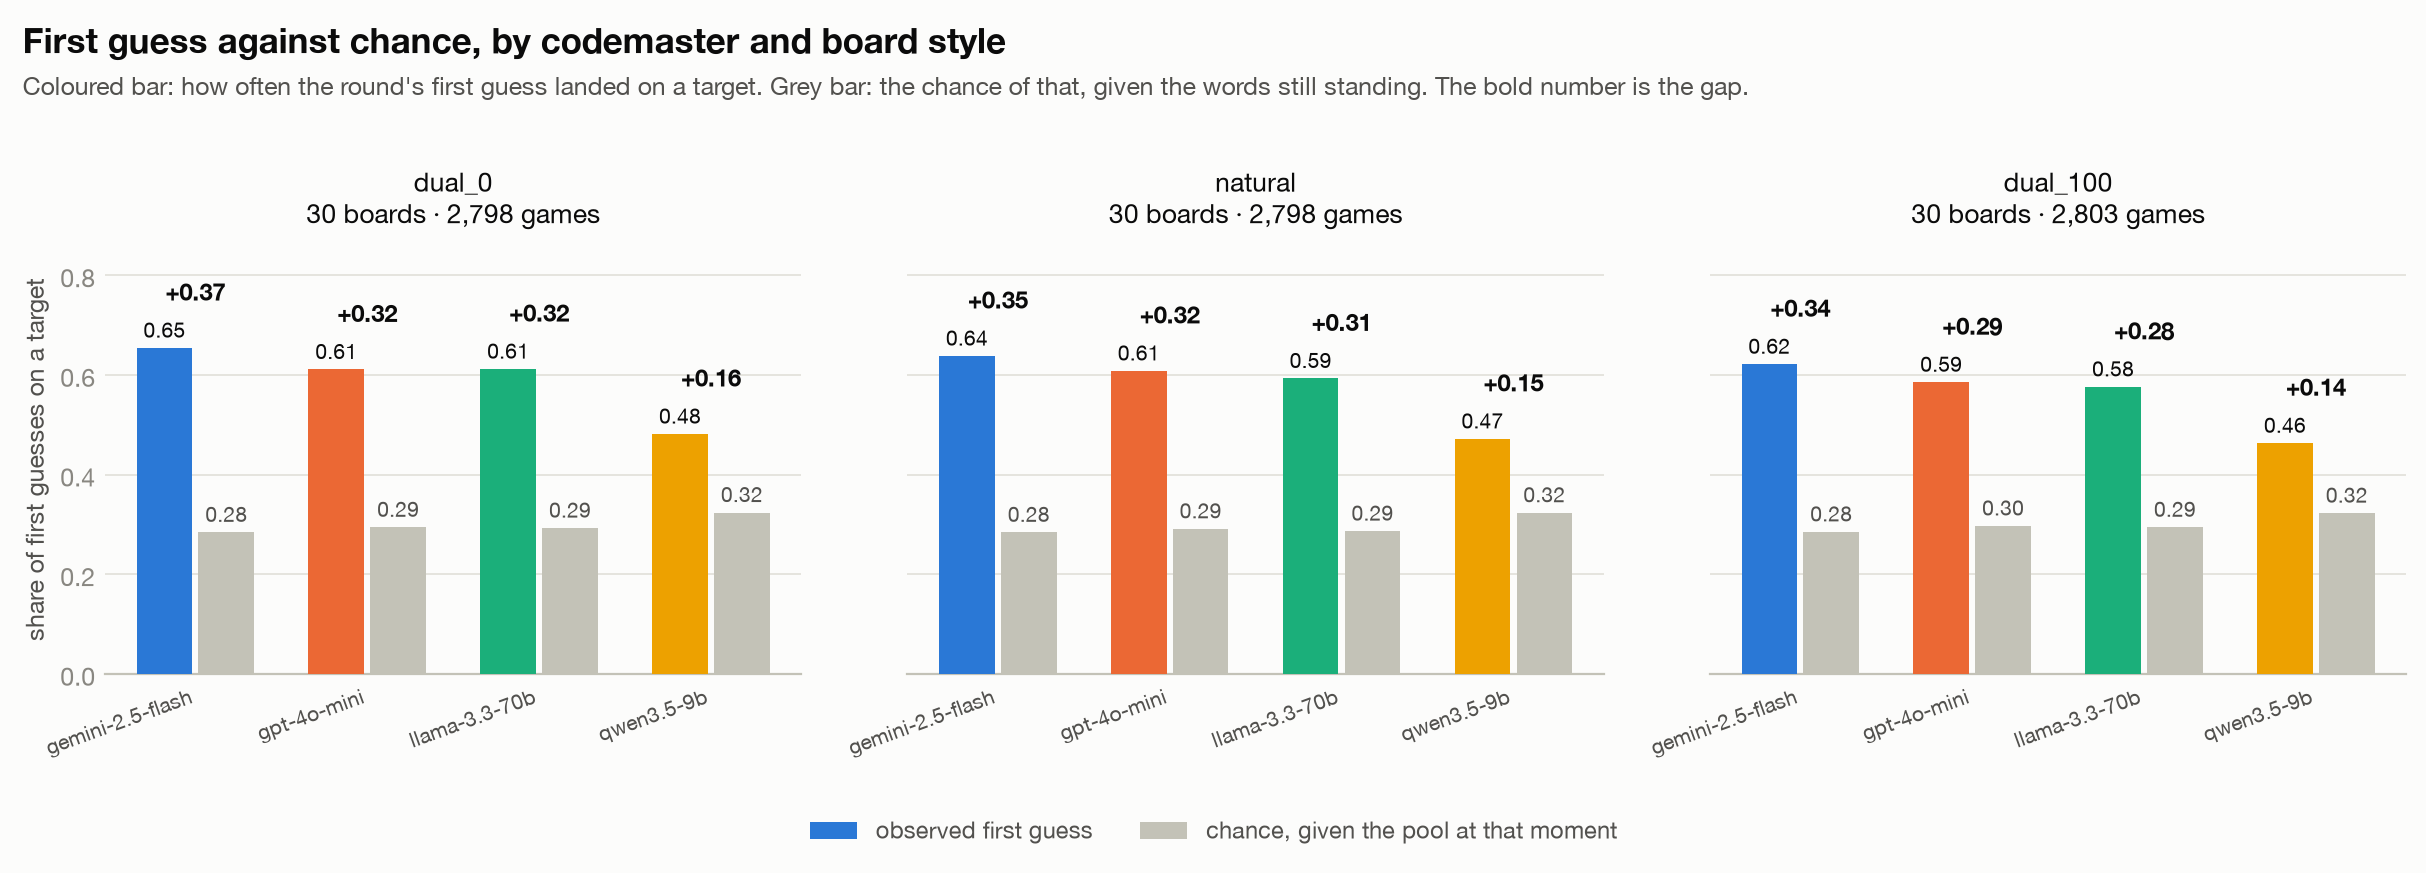
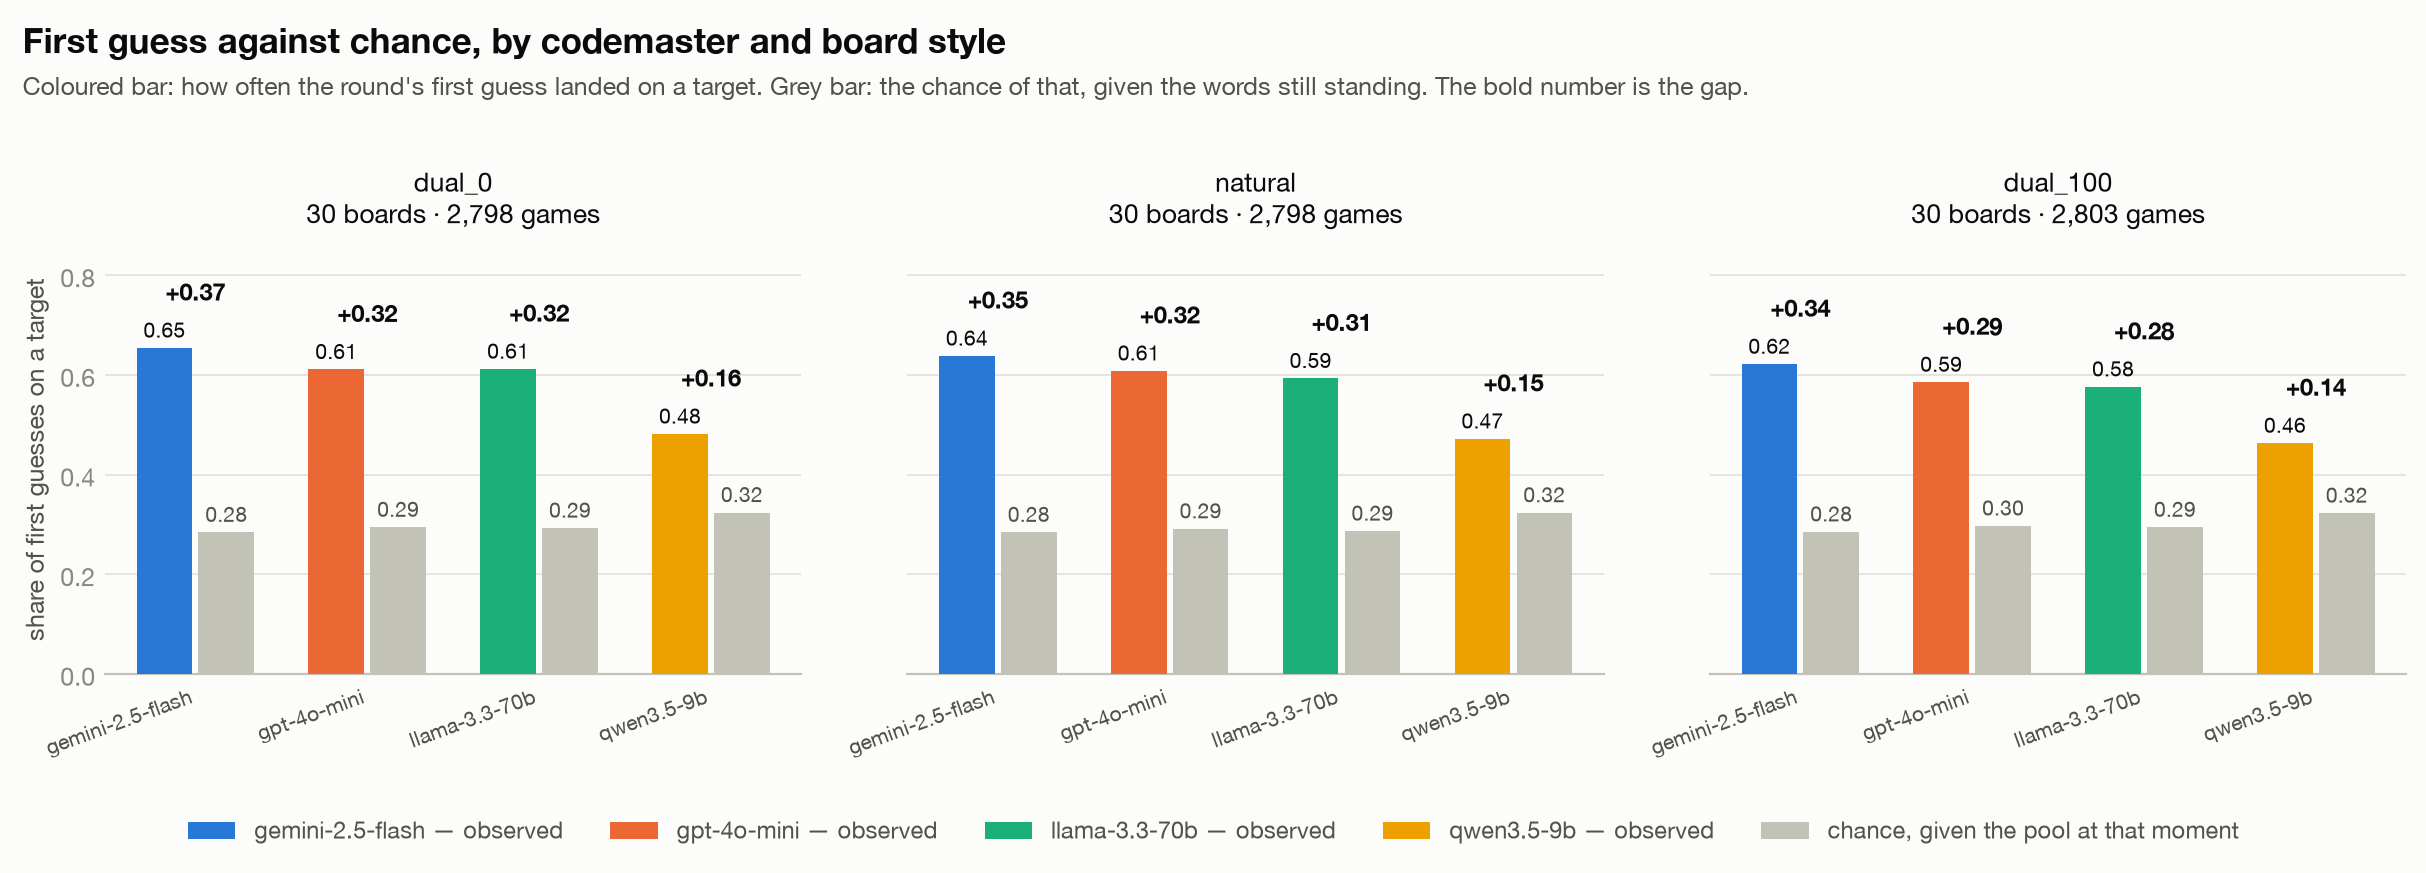
docs(paper): factors in separate panels, board variance restored, legends fixed
Figure 4 was a method x style grid, so every bar was a cell of the
interaction rather than a main effect. It is now one figure with two
graphs: prompt method pooling all styles, board ambiguity pooling both
methods, each bar averaged over everything else. Figure 8 is rebuilt in
the same layout for the two-model grid.

Board-to-board variation comes back as its own figure (the left panel of
the old spread figure), with per-style quartiles. The game-length
distribution figure is dropped.

Two fixes found while rebuilding. board_note counted distinct seeds, so a
prompt-method column claimed 30 boards when it had played all 90 - a
board is a (style, seed) pair. And the first-guess legend showed one blue
"observed" swatch while the bars are model-coloured; it now names the
models.

Claude-Session: https://claude.ai/code/session_01M282Xge4AXvZBmBRWEKr1V

Changed region(s): [[0.0618, 0.9278, 0.9275, 0.9588]]

diff --git a/scripts/paper_figures.py b/scripts/paper_figures.py
@@ -541,9 +541,19 @@ def fig_stopping(g, r):
 SUBSET_MODELS = ["gemini-2.5-flash", "gpt-4o-mini"]
 
 
+def n_boards(df) -> int:
+    """Distinct boards, not distinct seeds.
+
+    A board is `(style, seed)`: the same seed draws different words for each
+    style. Counting seeds alone reports 30 for an arm that actually played all
+    90 boards of the factorial.
+    """
+    return len(df[["board_style", "board_seed"]].drop_duplicates())
+
+
 def board_note(df) -> str:
-    """`30 boards · 933 games` — the denominator behind one column."""
-    return f"{df.board_seed.nunique()} boards · {len(df):,} games"
+    """`90 boards · 4,217 games` — the denominator behind one column."""
+    return f"{n_boards(df)} boards · {len(df):,} games"
 
 
 def two_model_subset(g):
@@ -551,65 +561,90 @@ def two_model_subset(g):
     return g[g.cm.isin(SUBSET_MODELS) & g.gs.isin(SUBSET_MODELS)]
 
 
-def fig_method_style_grid(g):
-    """Prompt method and board ambiguity in one grid (replaces two figures).
+def fig_factors_separately(g, models=None, *, title=None, subtitle=None):
+    """Prompt method and board ambiguity side by side — one figure, two graphs.
 
-    Rows are the two headline measures, columns the three board styles, and
-    each panel holds all four codemasters under both prompt methods — so the
-    method effect, the style effect and the codemaster ordering are all read
-    off one figure, and any interaction between them is visible rather than
-    averaged away.
+    Each panel averages over *everything* except its own factor and the
+    codemaster, so the method bars pool all three board styles and the
+    ambiguity bars pool both methods. Combining the two into a single grid
+    would make every bar a method x style cell instead, which is a different
+    and much thinner quantity.
     """
+    models = models or MODEL_ORDER
     done = g[g.outcome.isin(["win", "loss"])]
     wins = done[done.is_win == 1]
-    models = MODEL_ORDER
     cols = model_colors(models)
-    fig, axes = plt.subplots(2, 3, figsize=(12.4, 7.0), sharey="row")
-    for j, style in enumerate(STYLE_ORDER):
-        sub = done[done.board_style == style]
-        wsub = wins[wins.board_style == style]
-        for i, (frame, metric, fmt, label) in enumerate([
-            (sub, "is_win", "{:.0%}", "win rate"),
-            (wsub, "game_length", "{:.1f}", "rounds to win"),
+    fig, axes = plt.subplots(2, 2, figsize=(11.6, 7.0), sharey="row",
+                             gridspec_kw={"width_ratios": [2, 3]})
+
+    factors = [
+        ("method", ["strong_hebrew", "translate_pipeline"], METHOD_LABEL, "Prompt method"),
+        ("board_style", STYLE_ORDER,
+         {k: v.splitlines()[0] for k, v in STYLE_LABEL.items()}, "Board ambiguity"),
+    ]
+    for j, (column, levels, labels, factor_name) in enumerate(factors):
+        for i, (frame, metric, fmt, ylabel) in enumerate([
+            (done, "is_win", "{:.0%}", "win rate"),
+            (wins, "game_length", "{:.1f}", "rounds to win"),
         ]):
             ax = axes[i][j]
-            x = np.arange(len(models))
-            w = 0.38
-            for k, method in enumerate(["strong_hebrew", "translate_pipeline"]):
-                vals = [frame[(frame.cm == m) & (frame.method == method)][metric].mean()
-                        for m in models]
-                ax.bar(x + (k - 0.5) * w, vals, width=w * 0.88,
-                       color=[cols[m] for m in models], zorder=3,
-                       hatch="" if k == 0 else "///", edgecolor=SURFACE, linewidth=0.8)
-                for xi, v in zip(x, vals):
-                    ax.text(xi + (k - 0.5) * w, v, fmt.format(v), ha="center",
-                            va="bottom", fontsize=6.6, color=INK_2, rotation=90)
-            ax.set_xticks(x)
-            ax.set_xticklabels([m.replace("-instruct", "") for m in models],
-                               fontsize=7.2, color=INK_2, rotation=25, ha="right")
-            if i == 0:
-                ax.set_title(f"{STYLE_LABEL[style].splitlines()[0]}\n{board_note(sub)}",
-                             fontsize=9.5, color=INK, pad=8)
-                pct_axis(ax)
-            if j == 0:
-                ax.set_ylabel(label, fontsize=9)
-            tidy(ax)
-    # Rows share a y-axis, so the headroom for the rotated labels is set once
-    # per row from that row's own maximum rather than per panel.
+            groups = [
+                f"{labels[v]}\n{board_note(done[done[column] == v])}" if i == 0
+                else labels[v]
+                for v in levels
+            ]
+            series = {m: [frame[(frame.cm == m) & (frame[column] == v)][metric].mean()
+                          for v in levels] for m in models}
+            grouped_panel(ax, groups, series, cols, fmt=fmt,
+                          title=factor_name if i == 0 else "",
+                          ylabel=ylabel if j == 0 else "")
     for i in range(2):
         row_max = max(ax.get_ylim()[1] for ax in axes[i])
         for ax in axes[i]:
             ax.set_ylim(0, row_max)
-    handles = [Patch(facecolor=cols[m], label=m) for m in models] + [
-        Patch(facecolor="#dddddd", label="Hebrew-Direct"),
-        Patch(facecolor="#dddddd", hatch="///", label="English-Pivot"),
-    ]
-    fig.legend(handles=handles, loc="lower center", ncol=6, frameon=False, fontsize=8.5,
-               labelcolor=INK_2, bbox_to_anchor=(0.5, -0.012))
-    top = titles(fig, "Prompt method and board ambiguity together",
-                 "Rows: the two headline measures. Columns: board style. Bars: the four "
-                 "codemasters, solid for Hebrew-Direct and hatched for English-Pivot.")
-    fig.tight_layout(rect=(0, 0.06, 1, top))
+    handles = [Patch(facecolor=cols[m], label=m) for m in models]
+    fig.legend(handles=handles, loc="lower center", ncol=len(models), frameon=False,
+               fontsize=8.5, labelcolor=INK_2, bbox_to_anchor=(0.5, -0.012))
+    top = titles(
+        fig,
+        title or "The two designed factors, one panel each",
+        subtitle or "Left: prompt method, pooling all three board styles. Right: board "
+        "ambiguity, pooling both prompt methods. Every bar also averages over the "
+        "clue-count floor and the guesser.")
+    fig.tight_layout(rect=(0, 0.055, 1, top))
+    return fig
+
+
+def fig_board_variance(g):
+    """Every board's own win rate — the spread the whole study sits inside."""
+    done = g[g.outcome.isin(["win", "loss"])]
+    per_board = (done.groupby(["board_style", "board_seed"])
+                 .agg(win=("is_win", "mean"), n=("is_win", "size")).reset_index())
+    fig, ax = plt.subplots(figsize=(9.0, 5.0))
+    rng = np.random.default_rng(0)
+    for i, style in enumerate(STYLE_ORDER):
+        vals = per_board[per_board.board_style == style]["win"].values
+        ax.scatter(np.full(len(vals), i) + rng.normal(0, 0.058, len(vals)), vals,
+                   s=15, alpha=0.42, color=STYLE_RAMP[1], edgecolors="none", zorder=3)
+        q1, med, q3 = np.percentile(vals, [25, 50, 75])
+        ax.plot([i - 0.30, i + 0.30], [vals.mean()] * 2, color=SERIES[1], lw=2.6,
+                zorder=5, solid_capstyle="round")
+        ax.plot([i, i], [q1, q3], color=SERIES[1], lw=1.2, zorder=4, alpha=0.8)
+        ax.text(i, 1.055, f"mean {vals.mean():.0%}", ha="center", fontsize=9, color=INK)
+        ax.text(i, 1.015, f"IQR {q1:.0%}–{q3:.0%}", ha="center", fontsize=8, color=MUTED)
+    ax.set_xticks(range(len(STYLE_ORDER)))
+    ax.set_xticklabels([f"{STYLE_LABEL[s]}\n{board_note(done[done.board_style == s])}"
+                        for s in STYLE_ORDER], fontsize=8.6, color=INK_2)
+    ax.set_ylim(-0.03, 1.12)
+    ax.set_yticks([0, .25, .5, .75, 1])
+    ax.set_ylabel("win rate on that board", fontsize=9)
+    pct_axis(ax)
+    tidy(ax)
+    top = titles(fig, "Board-to-board variation dwarfs every model effect",
+                 "One dot per board: its win rate over every game any pair played on it. "
+                 "The thick bar is the style mean, the thin line its interquartile range. "
+                 "Both runs pooled.")
+    fig.tight_layout(rect=(0, 0, 1, top))
     return fig
 
 
@@ -678,10 +713,13 @@ def _first_guess_panels(g, r, models, title, subtitle):
         ax.set_ylim(0, 0.86)
         tidy(ax)
     axes[0].set_ylabel("share of first guesses on a target", fontsize=9)
-    handles = [Patch(facecolor=SERIES[0], label="observed first guess"),
-               Patch(facecolor=BASELINE, label="chance, given the pool at that moment")]
-    fig.legend(handles=handles, loc="lower center", ncol=2, frameon=False, fontsize=8.5,
-               labelcolor=INK_2, bbox_to_anchor=(0.5, -0.02))
+    # The coloured bars carry model identity, so the legend has to name the
+    # models — a single "observed" swatch would assert a colour no bar uses.
+    cols = model_colors(models)
+    handles = [Patch(facecolor=cols[m], label=f"{m} — observed") for m in models]
+    handles.append(Patch(facecolor=BASELINE, label="chance, given the pool at that moment"))
+    fig.legend(handles=handles, loc="lower center", ncol=len(handles), frameon=False,
+               fontsize=8.5, labelcolor=INK_2, bbox_to_anchor=(0.5, -0.02))
     top = titles(fig, title, subtitle)
     fig.tight_layout(rect=(0, 0.07, 1, top))
     return fig
@@ -873,11 +911,16 @@ FIGURES = {
     "fig10_trajectory": ("factorial", fig_trajectory),
     "fig11_stopping": ("factorial", fig_stopping),
     # The selected set.
-    "fig21_method_style_grid": ("factorial", lambda g, r: fig_method_style_grid(g)),
-    "fig22_length_by_style": ("pooled", lambda g, r: fig_length_by_style(g)),
+    "fig21_factors_separately": ("factorial", lambda g, r: fig_factors_separately(g)),
+    "fig22_board_variance": ("pooled", lambda g, r: fig_board_variance(g)),
     "fig23_first_guess_labeled": ("factorial", fig_first_guess_labeled),
     "fig24_ambition_free": ("factorial", fig_ambition_free),
-    "fig25_outcome_mix_subset": ("pooled", lambda g, r: fig_outcome_mix_subset(g)),
+    "fig25_factors_subset": ("pooled", lambda g, r: fig_factors_separately(
+        two_model_subset(g), SUBSET_MODELS,
+        title="The two designed factors — the two-model grid on all 450 boards",
+        subtitle="The same two panels as Figure 4, for gemini-2.5-flash and gpt-4o-mini "
+                 "in both roles, pooled over both runs. Five times the boards behind each "
+                 "ambiguity bar.")),
     "fig26_first_guess_subset": ("pooled", fig_first_guess_subset),
     "fig27_pair_table_english": ("factorial", fig_pair_table_english),
     "fig28_gloss_sense_split": ("factorial", fig_gloss),
